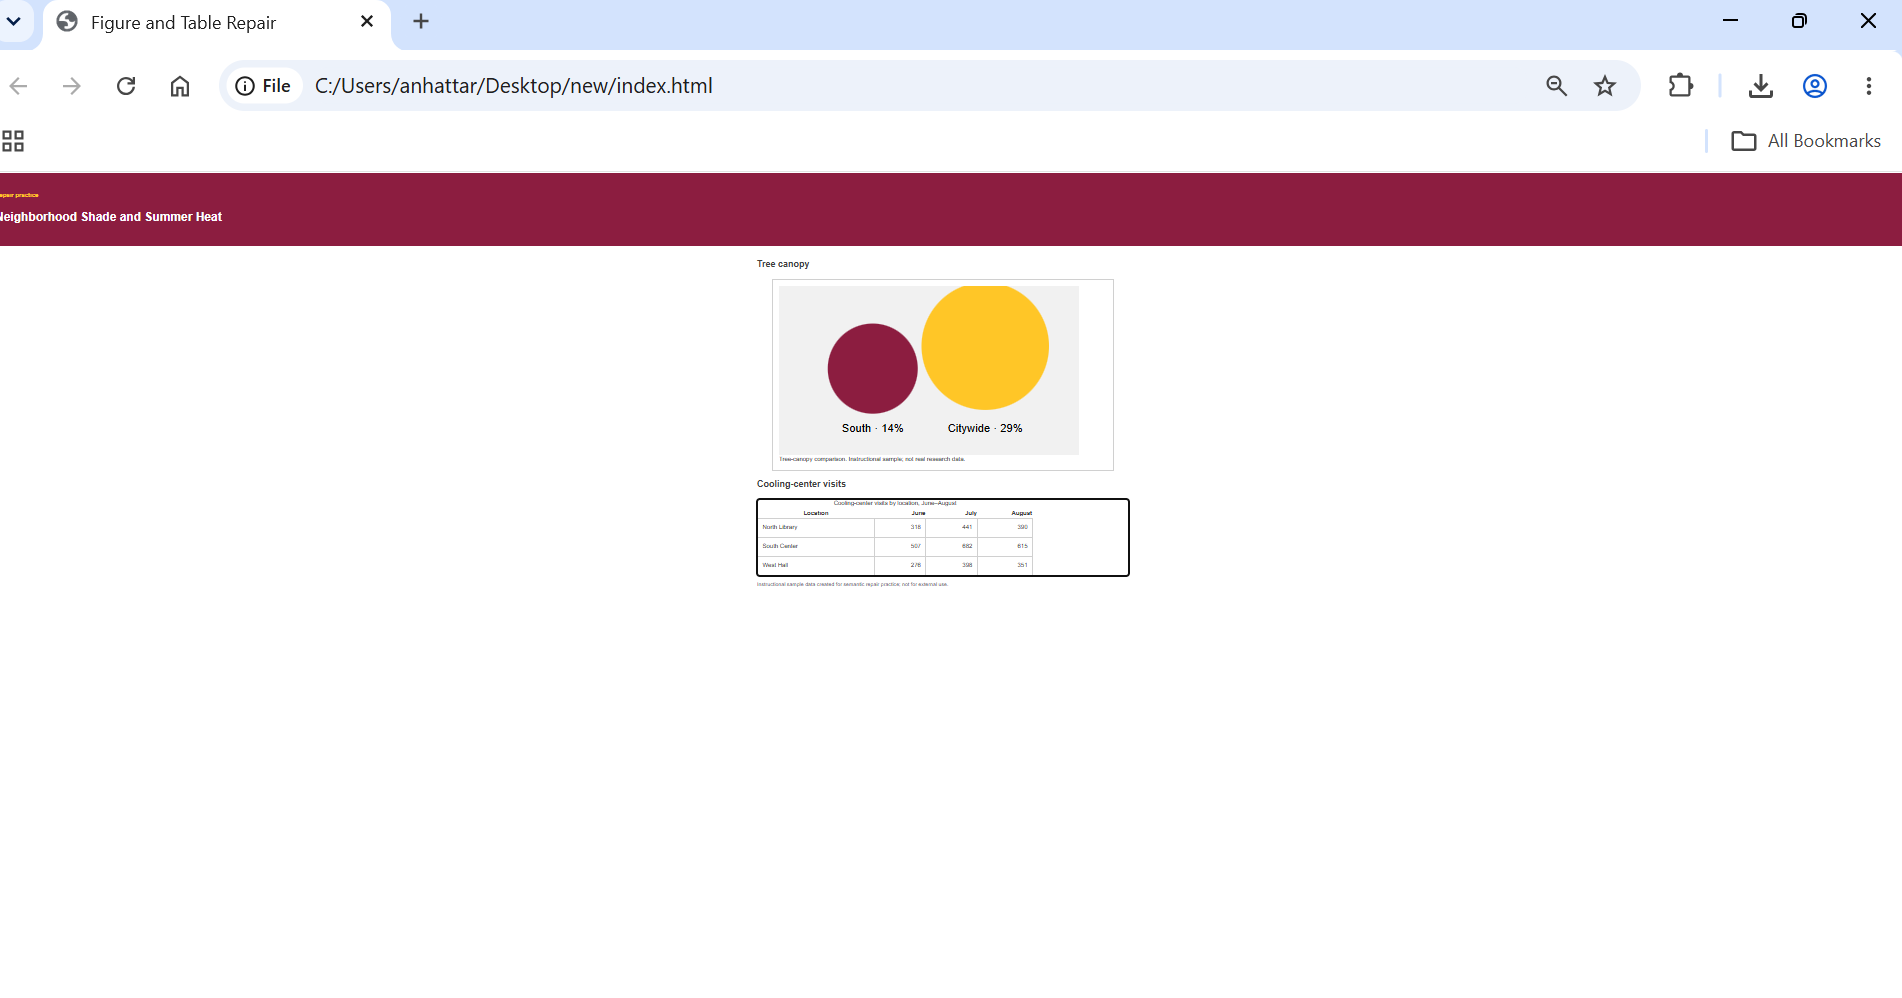
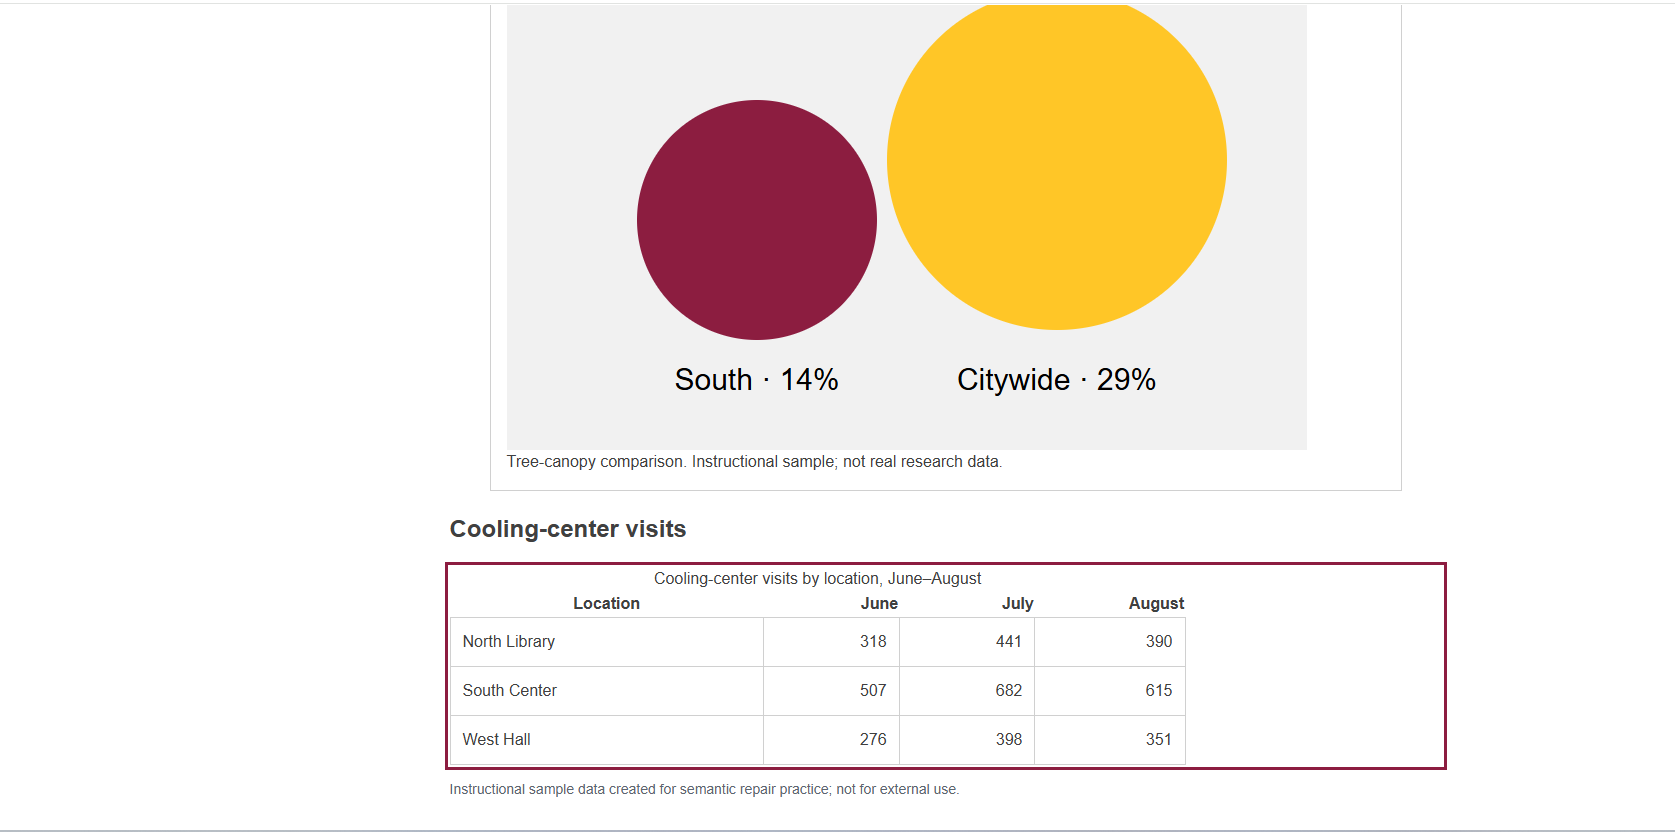
Update table focus styles and screenshots

diff --git a/styles.css b/styles.css
@@ -59,7 +59,7 @@ td {
     overflow-x: auto;
 }
 
-.table-holder:focus-visible {
+.table-holder:focus {
     outline: 3px solid var(--maroon);
     outline-offset: 2px;
 }
